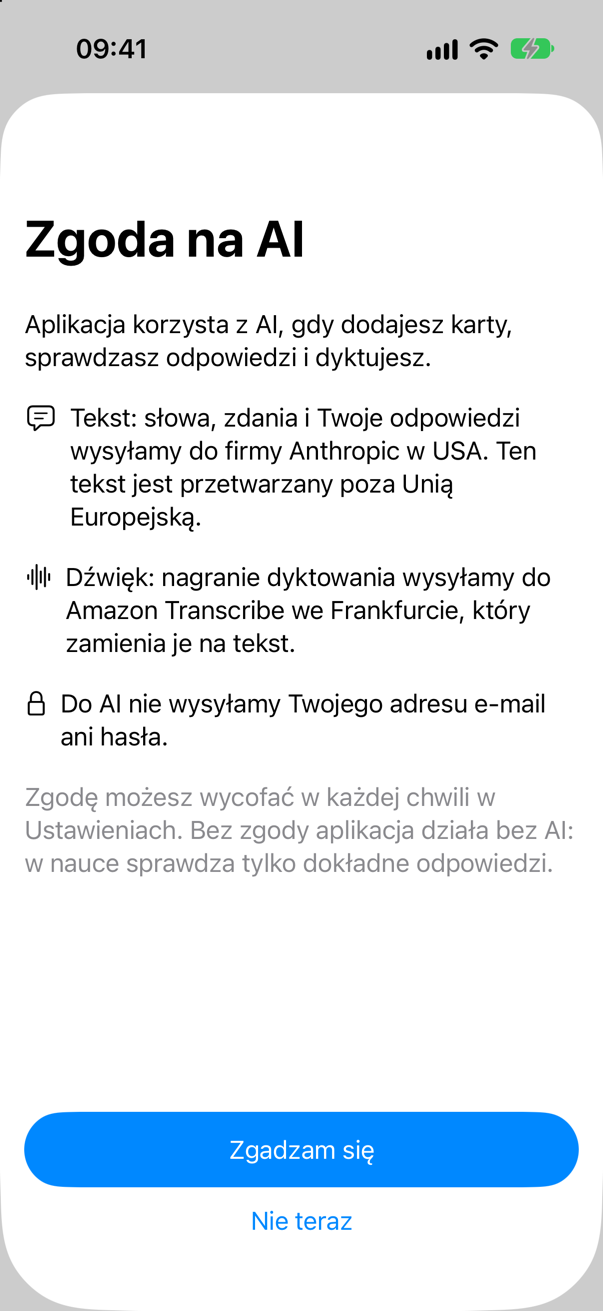
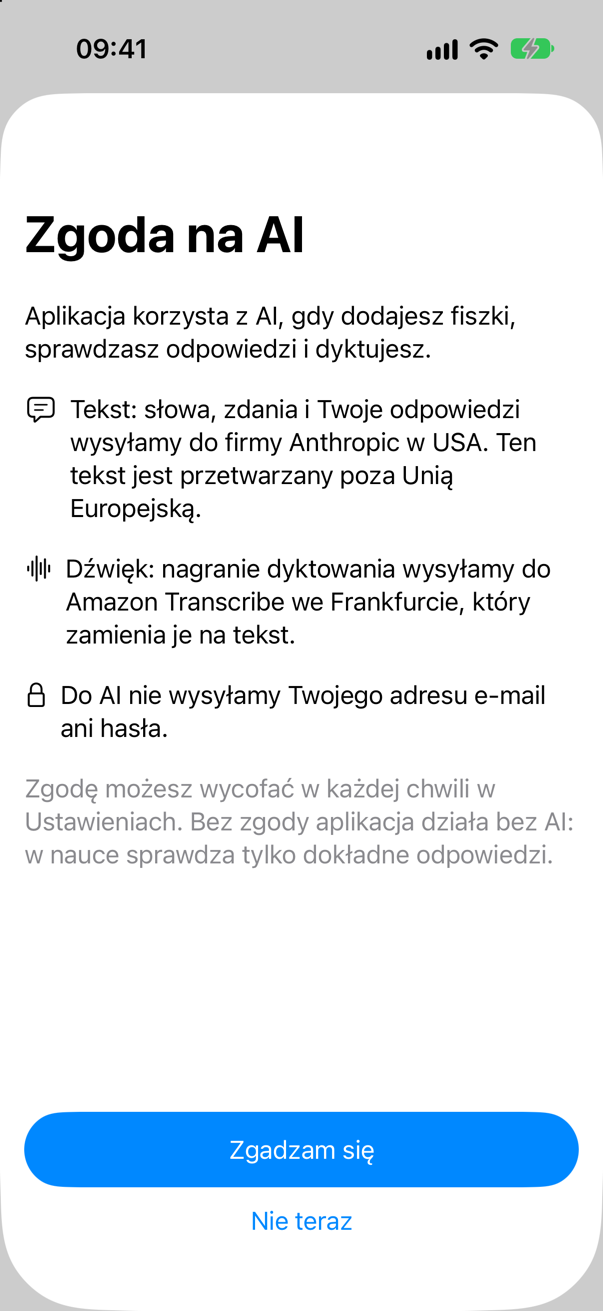
docs: add the Słówka and card form screenshots

Changed region(s): [[0.0299, 0.1526, 0.9552, 0.6712]]

diff --git a/README.md b/README.md
@@ -12,6 +12,10 @@ The app is in development. These screens exist today:
 |---|---|---|
 | <img src="docs/screenshots/group.png" width="240" alt="The Grupa tab with a group and its members"> | <img src="docs/screenshots/invitation.png" width="240" alt="The invitation of a link, with the button to join the group"> | <img src="docs/screenshots/sign-up.png" width="240" alt="The sign-up sheet with the fields for the e-mail and the password"> |
 
+| Words | Card |
+|---|---|
+| <img src="docs/screenshots/words.png" width="240" alt="The Słówka tab with the cards of the group"> | <img src="docs/screenshots/card.png" width="240" alt="The form of a card with its fields"> |
+
 ## Parts
 
 - `app/`: the SwiftUI app for iOS 26.
